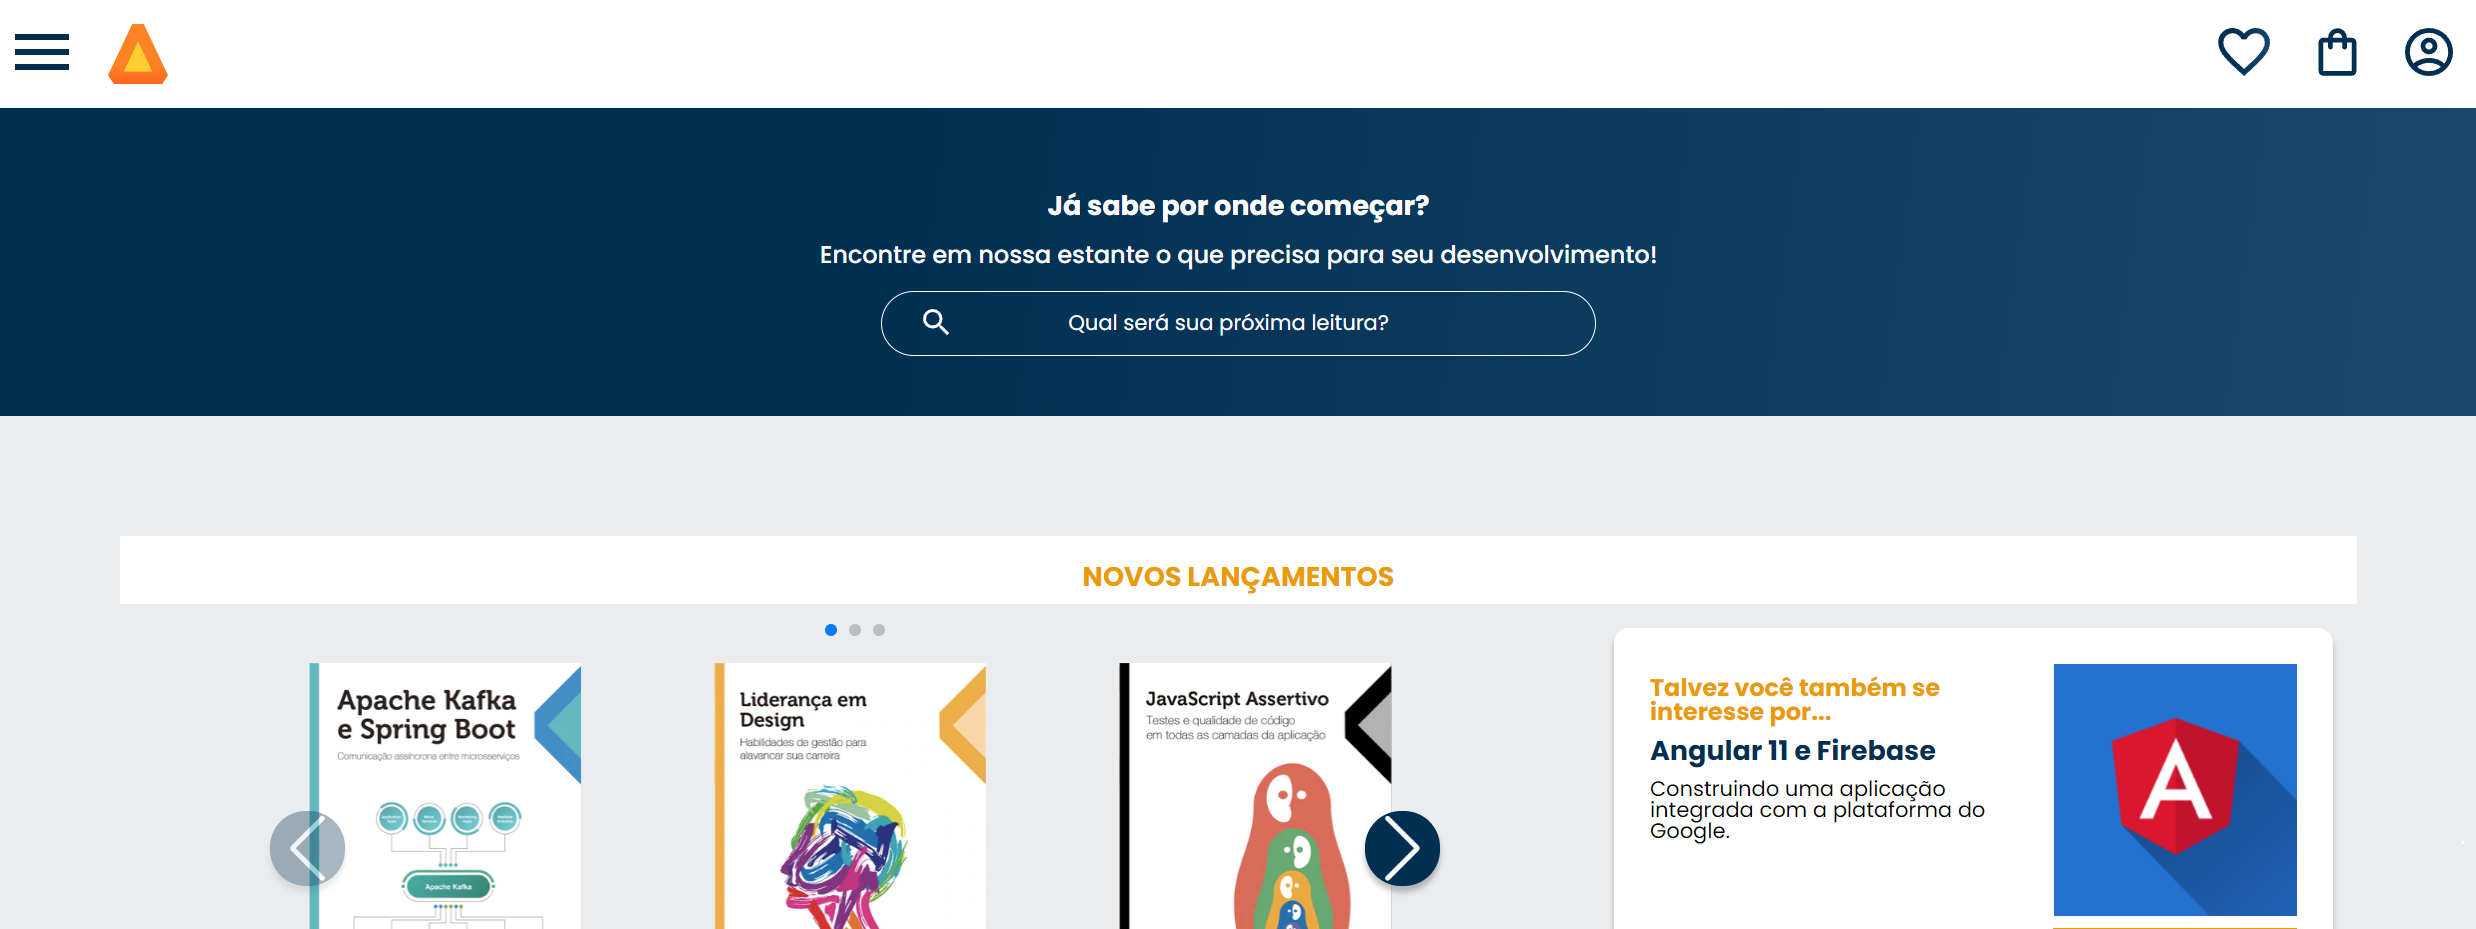
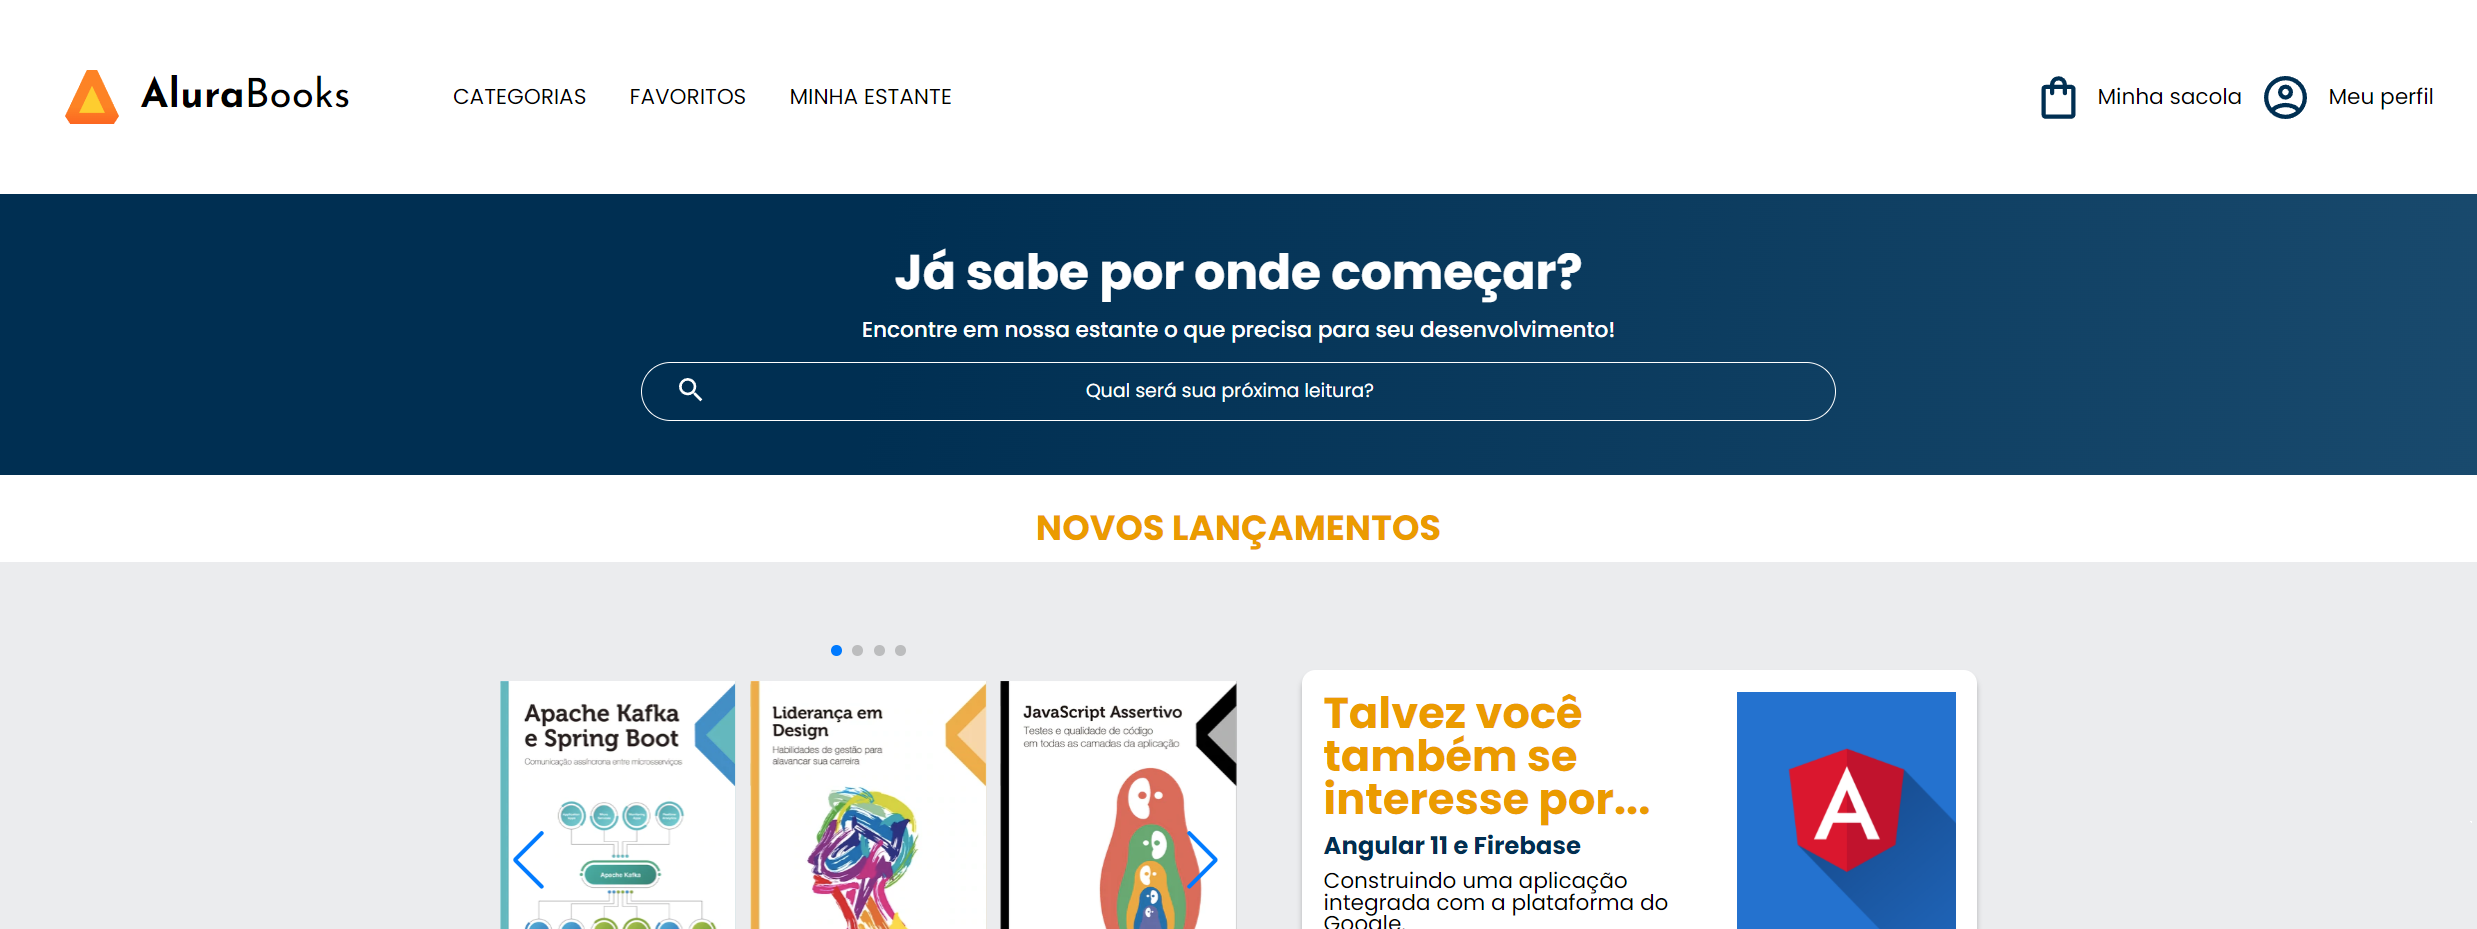
backup 25-04-2023

diff --git a/Alura Books/index.html b/Alura Books/index.html
@@ -334,6 +334,12 @@
                 el: '.swiper-pagination',
                 type: 'bullets',
             },
+
+            // Navigation arrows
+            navigation: {
+                nextEl: '.swiper-button-next',
+                prevEl: '.swiper-button-prev',
+            },
         });
     </script>
 </body>
